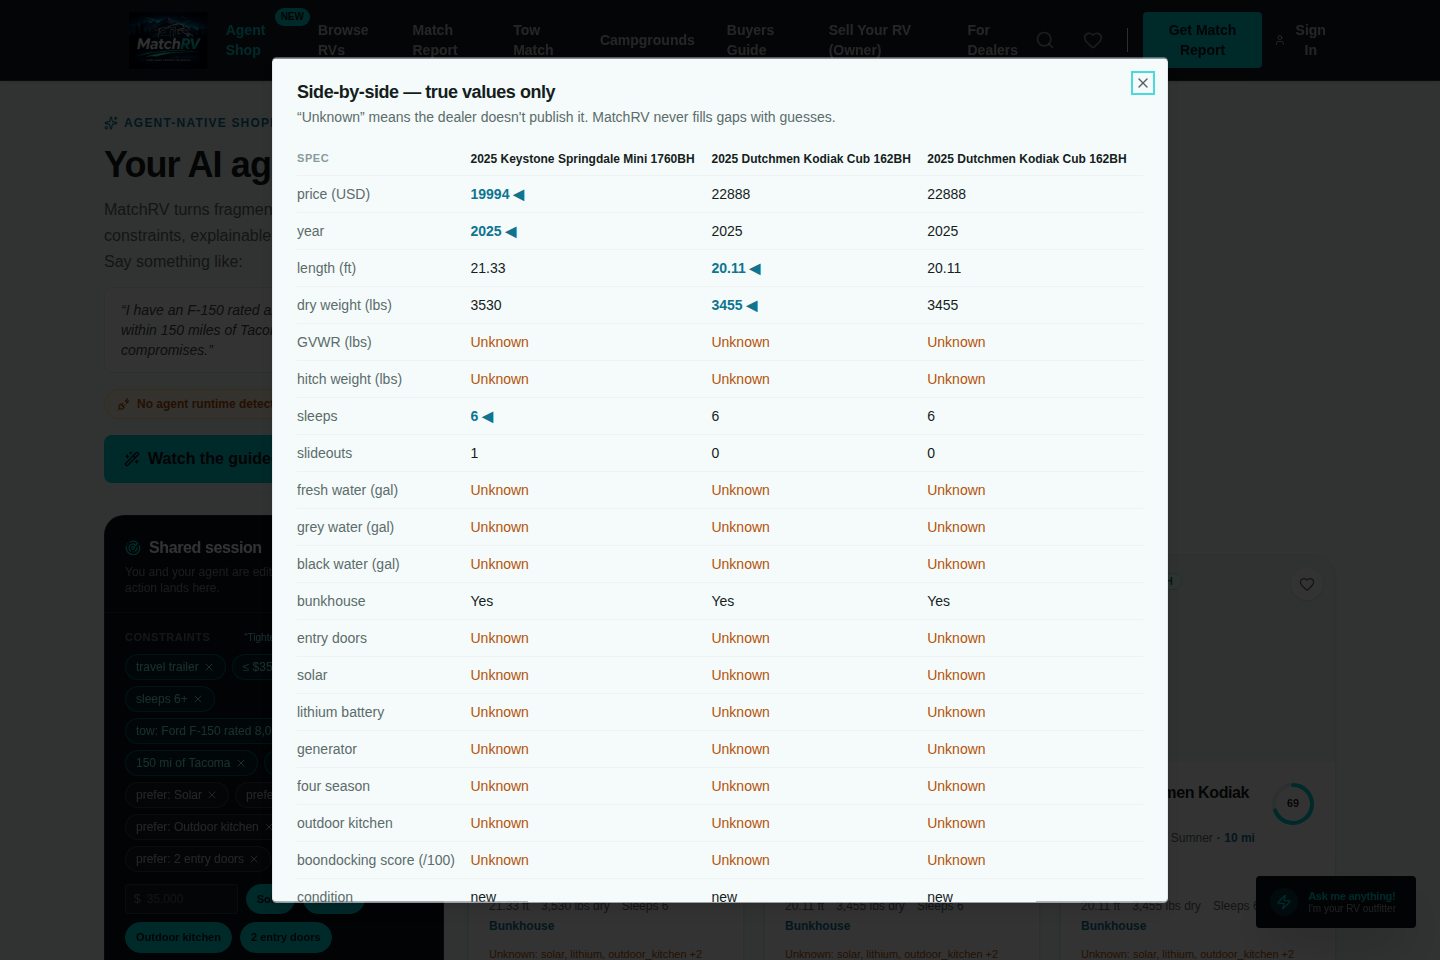
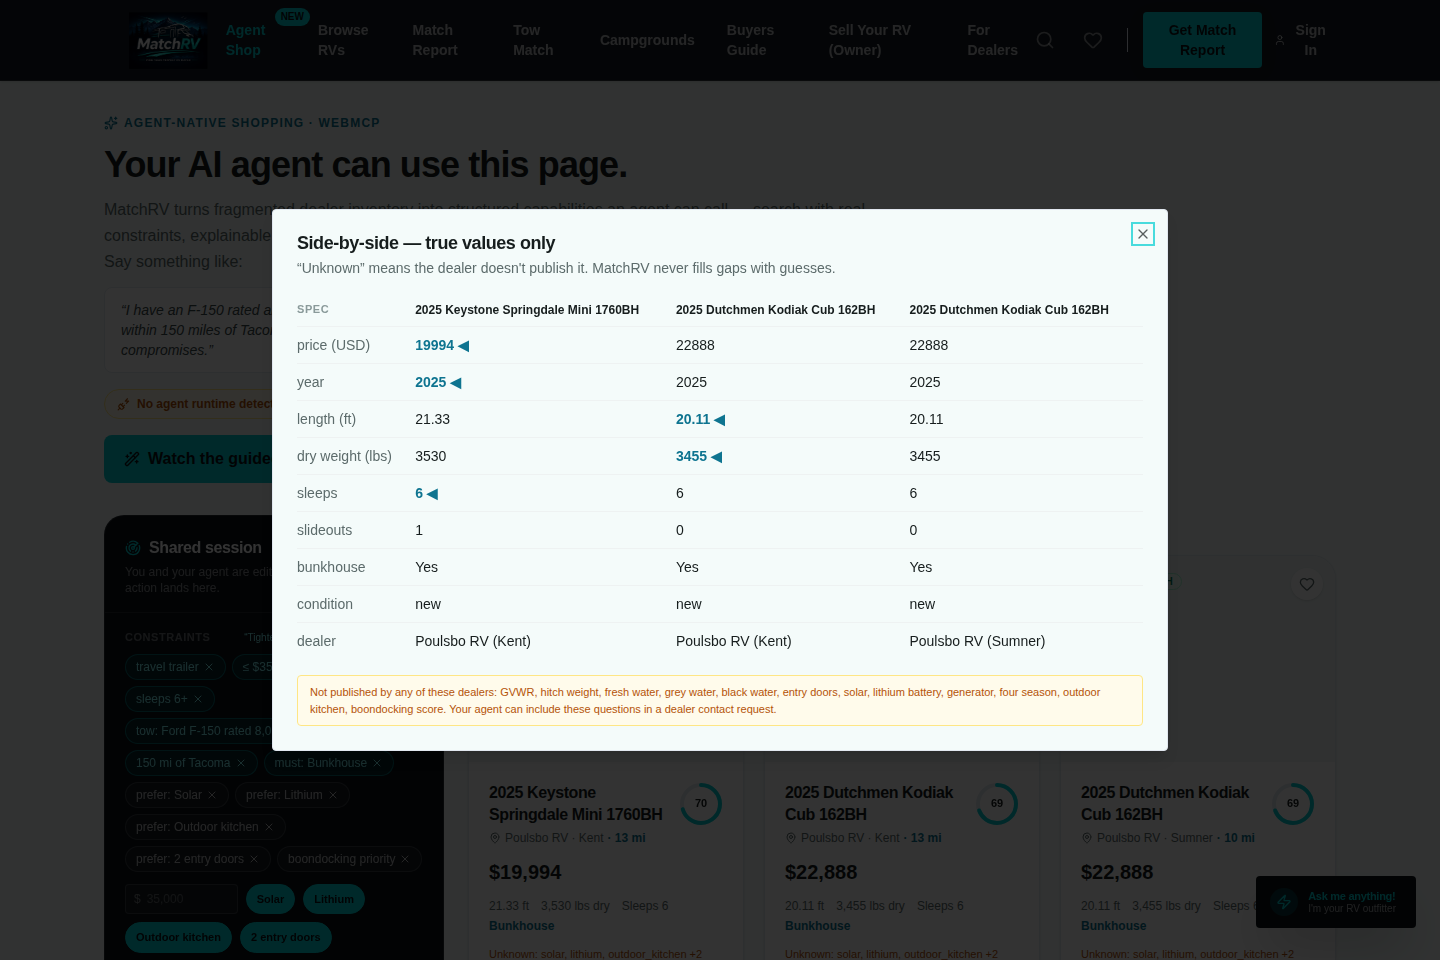
polish: compare-sheet unknown collapsing + honest home copy
Collapse all-unknown spec rows in the comparison view into one labeled
'not published by any of these dealers' note that points at the dealer
contact flow, and correct the home hero's 'Live RVs' wording to 'RVs
Listed' (the demo dataset is a labeled snapshot). Refresh screenshots
from a fresh 16/16 E2E run.

Claude-Session: https://claude.ai/code/session_01RLcQ65XFXMN6goADN9J8bo

diff --git a/artifacts/rv-marketplace/src/components/agent/overlays.tsx b/artifacts/rv-marketplace/src/components/agent/overlays.tsx
@@ -143,6 +143,8 @@ export function CompareSheet() {
   const s = useAgentSession();
   if (!s.comparison) return null;
   const { comparison } = s.comparison;
+  const knownRows = comparison.rows.filter((r) => r.values.some((v) => v !== null));
+  const allUnknown = comparison.rows.filter((r) => r.values.every((v) => v === null));
 
   return (
     <Dialog open onOpenChange={(open) => !open && setComparison(null, "human")}>
@@ -164,7 +166,7 @@ export function CompareSheet() {
               </tr>
             </thead>
             <tbody>
-              {comparison.rows.map((row) => (
+              {knownRows.map((row) => (
                 <tr key={row.spec} className="border-t border-[#eef2f2]">
                   <td className="py-2 pr-3 text-[#5c6b6b]">{row.spec}{row.unit ? ` (${row.unit})` : ""}</td>
                   {row.values.map((v, i) => (
@@ -180,6 +182,12 @@ export function CompareSheet() {
             </tbody>
           </table>
         </div>
+        {allUnknown.length > 0 && (
+          <p className="text-[11px] text-[#b45309] bg-amber-50 border border-amber-200 rounded-lg px-3 py-2">
+            Not published by any of these dealers: {allUnknown.map((r) => r.spec).join(", ")}. Your agent can
+            include these questions in a dealer contact request.
+          </p>
+        )}
         {comparison.unknownNotes.length > 0 && (
           <p className="text-[11px] text-[#8a9a9a]">{comparison.unknownNotes.join(" · ")}</p>
         )}

diff --git a/artifacts/rv-marketplace/src/pages/home.tsx b/artifacts/rv-marketplace/src/pages/home.tsx
@@ -277,7 +277,7 @@ export function Home() {
           <div className="max-w-3xl">
             <div className="inline-flex items-center gap-2 px-3 py-1.5 bg-[#00CED1]/20 text-[#00CED1] rounded text-xs font-bold uppercase tracking-widest mb-5 sm:mb-6 select-none cursor-default">
               <span className="w-2 h-2 bg-[#00CED1] rounded-full animate-pulse" />
-              {inventoryCount ? `${inventoryCount.toLocaleString()} Live RVs` : "7,500+ Live RVs"}
+              {inventoryCount ? `${inventoryCount.toLocaleString()} RVs Listed` : "RVs Listed Across WA"}
             </div>
 
             <h1 className="text-4xl sm:text-6xl md:text-7xl font-display font-black text-white tracking-tight mb-4 sm:mb-6 select-none cursor-default">
